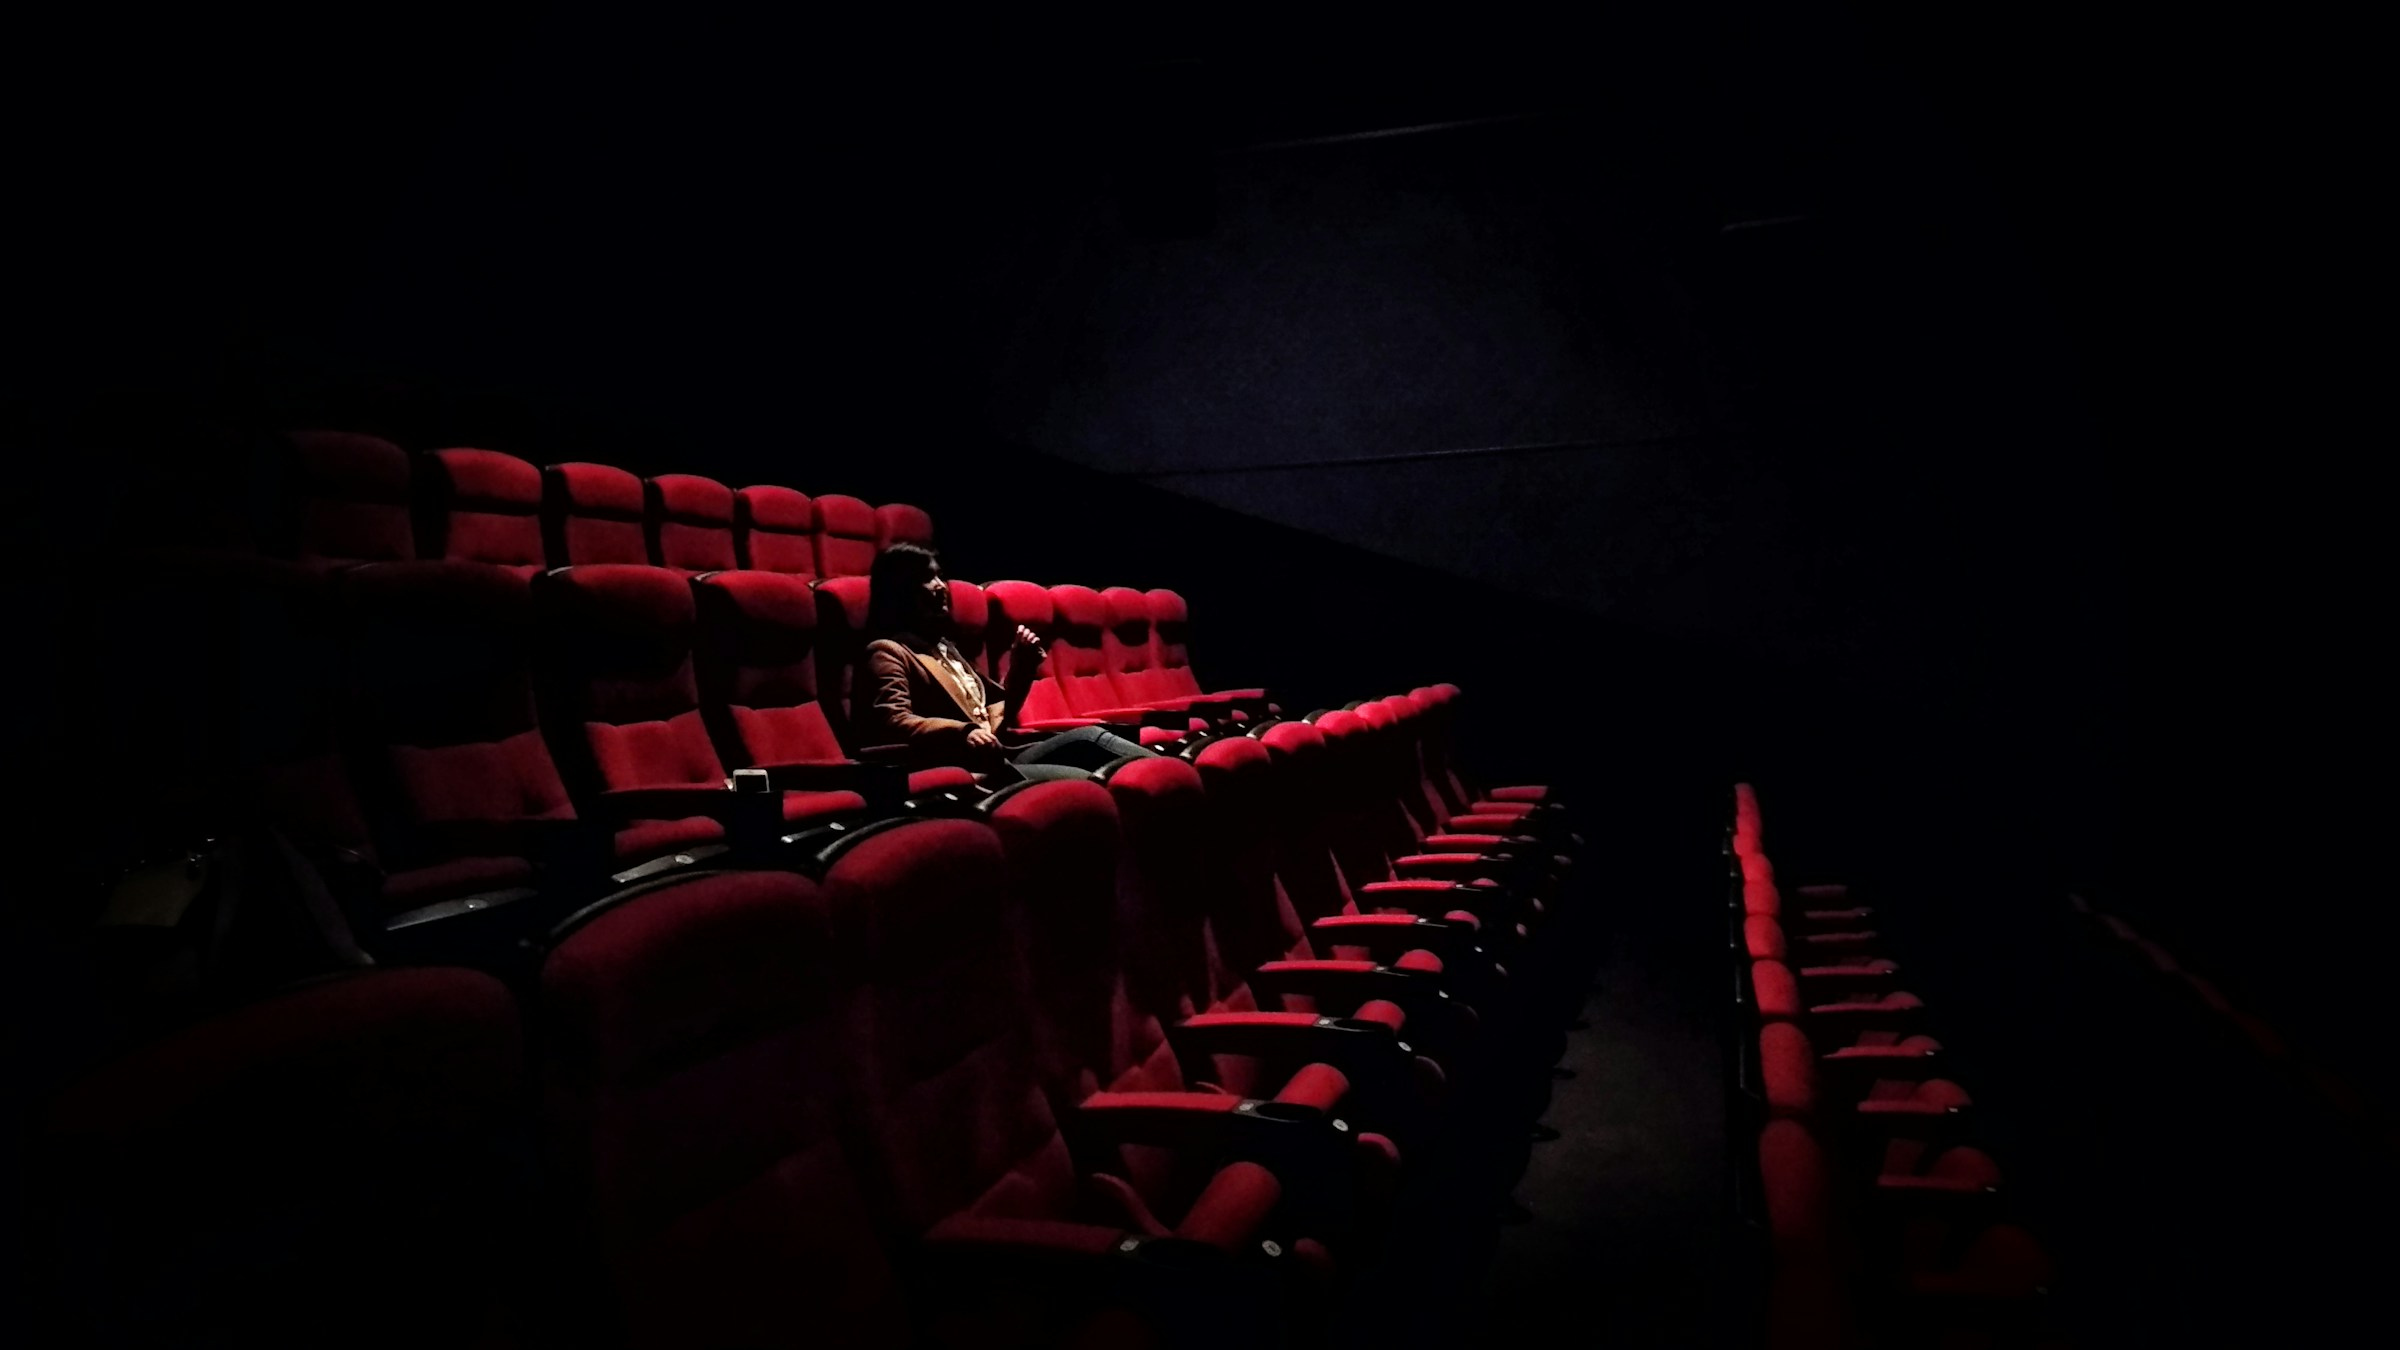
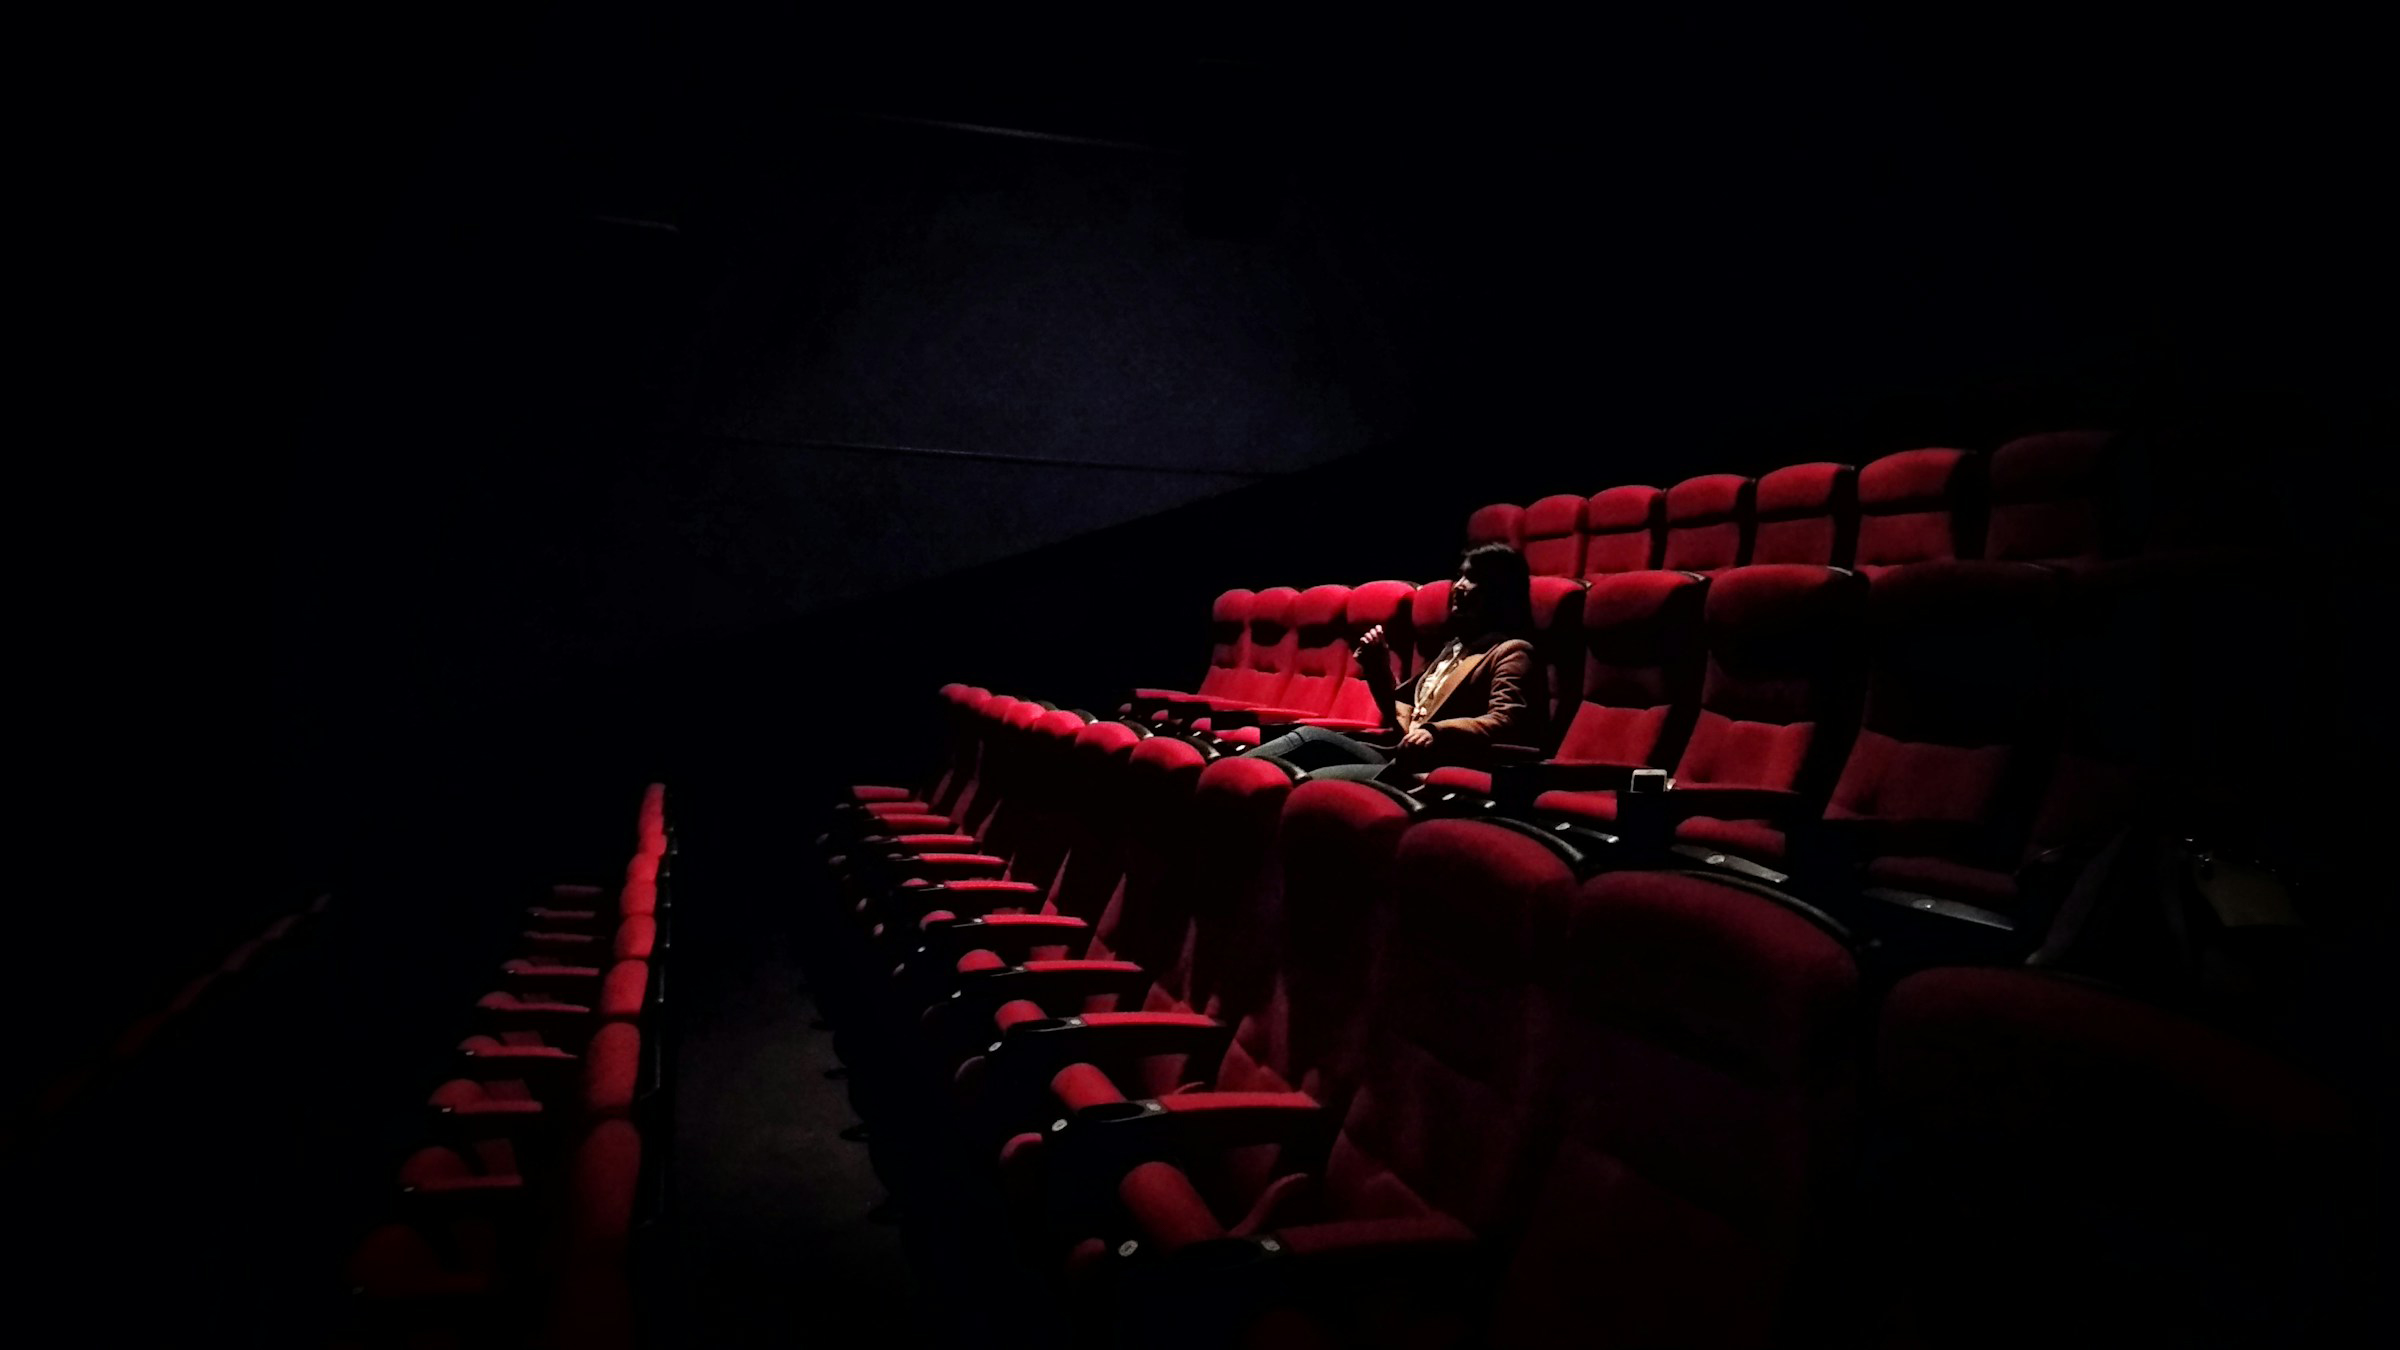
Update home page and CSS

Changed region(s): [[0.1562, 0.3111, 0.8438, 0.9333]]

diff --git a/src/pages/Home/Home.module.css b/src/pages/Home/Home.module.css
@@ -1,23 +1,12 @@
 .home {
-  justify-content: flex-end;
   background-image: linear-gradient(90deg, rgba(0, 0, 0, 0.5) 0%, rgba(0, 0, 0, 0.75) 50%, rgba(0, 0, 0, 0.25) 70%),
     url('../../../images/home.jpg');
-  background-size: cover;
-  display: flex;
-  flex: 1;
-  padding: var(--vertical-padding);
 }
 
-.home-welcome {
-  align-items: flex-start;
-  color: white;
-  display: flex;
-  flex-direction: column;
-  font-family: var(--font);
-  gap: 1.5rem;
-  justify-content: center;
+.backgound-image {
+  transform: scaleX(-1);
 }
 
-.home-welcome p {
+.home p {
   opacity: 0.7;
 }

diff --git a/src/App.css b/src/App.css
@@ -86,6 +86,25 @@ form input:first-of-type {
   text-align: center;
 }
 
+.container {
+  justify-content: flex-start;
+  background-size: cover;
+  display: flex;
+  flex: 1;
+  padding: var(--vertical-padding);
+}
+
+.content {
+  align-items: flex-start;
+  color: white;
+  display: flex;
+  flex-direction: column;
+  font-family: var(--font);
+  gap: 1.5rem;
+  justify-content: center;
+  max-width: 50%;
+}
+
 @media only screen and (min-width: 1200px) {
   .column:first-of-type {
     background-color: var(--orange-web);

diff --git a/src/pages/Home/Home.jsx b/src/pages/Home/Home.jsx
@@ -11,10 +11,10 @@ export const HomePage = () => {
   };
 
   return (
-    <div className={styles.home}>
-      <div className={styles['home-welcome']}>
+    <div className={`${styles.home} container`}>
+      <div className='content'>
         <span>
-          <h2>Wander what movie to watch next?</h2>
+          <h1>What to watch next?</h1>
           <p>Find the best option with us and share your opinion</p>
         </span>
         <Button text='Discover' type='filled' onClick={handleDiscoverClick} />
